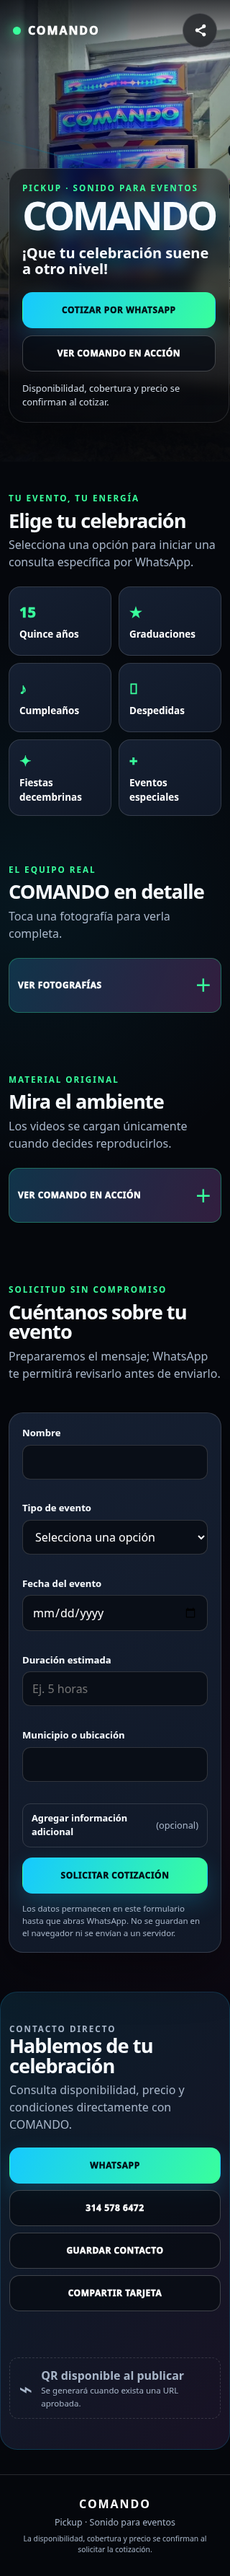
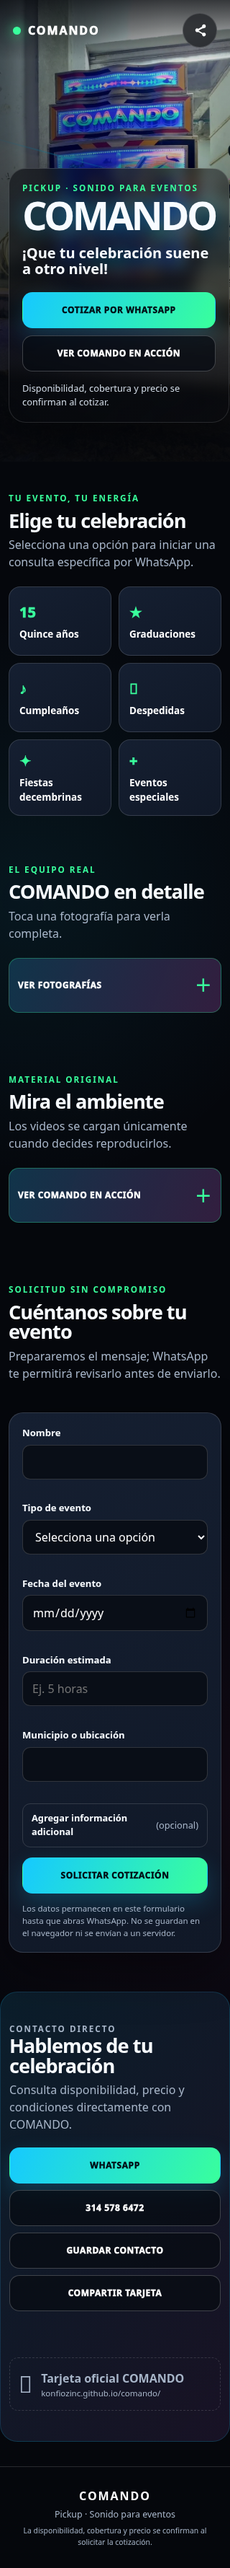
chore: configurar URL pública de COMANDO

diff --git a/index.html b/index.html
@@ -5,16 +5,18 @@
   <meta name="viewport" content="width=device-width,initial-scale=1,viewport-fit=cover">
   <meta name="theme-color" content="#080b12">
   <meta name="description" content="COMANDO: pickup y sonido para quince años, graduaciones, cumpleaños y celebraciones especiales. Solicita una cotización por WhatsApp.">
+  <link rel="canonical" href="https://konfiozinc.github.io/comando/">
   <meta property="og:type" content="website">
+  <meta property="og:url" content="https://konfiozinc.github.io/comando/">
   <meta property="og:title" content="COMANDO · Sonido para eventos">
   <meta property="og:description" content="Que tu celebración suene a otro nivel. Solicita disponibilidad y cotización por WhatsApp.">
-  <meta property="og:image" content="assets/img/og-comando.png">
+  <meta property="og:image" content="https://konfiozinc.github.io/comando/assets/img/og-comando.png">
   <meta property="og:image:width" content="1200">
   <meta property="og:image:height" content="630">
   <meta name="twitter:card" content="summary_large_image">
   <meta name="twitter:title" content="COMANDO · Sonido para eventos">
   <meta name="twitter:description" content="Pickup y sonido para celebraciones especiales.">
-  <meta name="twitter:image" content="assets/img/og-comando.png">
+  <meta name="twitter:image" content="https://konfiozinc.github.io/comando/assets/img/og-comando.png">
   <title>COMANDO · Pickup y sonido para eventos</title>
   <link rel="icon" href="assets/img/favicon.svg" type="image/svg+xml">
   <link rel="manifest" href="manifest.webmanifest">
@@ -156,7 +158,7 @@
         <button class="button button--ghost" id="share-card" type="button">Compartir tarjeta</button>
       </div>
       <p class="share-status" id="share-status" role="status" aria-live="polite"></p>
-      <div class="qr-pending" aria-label="Código QR pendiente de URL definitiva"><span aria-hidden="true">⌁</span><div><strong>QR disponible al publicar</strong><small>Se generará cuando exista una URL aprobada.</small></div></div>
+      <div class="qr-pending" aria-label="URL oficial de la tarjeta COMANDO"><span aria-hidden="true">↗</span><div><strong>Tarjeta oficial COMANDO</strong><small>konfiozinc.github.io/comando/</small></div></div>
     </section>
   </main>
 

diff --git a/app.js b/app.js
@@ -1,6 +1,7 @@
 'use strict';
 
 const PHONE = '573145786472';
+const PUBLIC_URL = 'https://konfiozinc.github.io/comando/';
 const quoteBase = 'Hola, quiero contratar el pickup COMANDO.';
 
 document.querySelectorAll('.source-photo').forEach((image) => {
@@ -134,12 +135,12 @@ document.addEventListener('keydown', (event) => {
 
 const status = document.querySelector('#share-status');
 async function shareCard() {
-  const data = { title: 'COMANDO · Sonido para eventos', text: 'Conoce COMANDO y solicita una cotización para tu celebración.', url: location.href };
+  const data = { title: 'COMANDO · Sonido para eventos', text: 'Conoce COMANDO y solicita una cotización para tu celebración.', url: PUBLIC_URL };
   try {
     if (navigator.share) await navigator.share(data);
-    else if (navigator.clipboard && window.isSecureContext) { await navigator.clipboard.writeText(location.href); status.textContent = 'Enlace copiado.'; }
+    else if (navigator.clipboard && window.isSecureContext) { await navigator.clipboard.writeText(PUBLIC_URL); status.textContent = 'Enlace copiado.'; }
     else {
-      const temporary = document.createElement('textarea'); temporary.value = location.href; temporary.setAttribute('readonly', ''); temporary.style.position = 'fixed'; temporary.style.opacity = '0';
+      const temporary = document.createElement('textarea'); temporary.value = PUBLIC_URL; temporary.setAttribute('readonly', ''); temporary.style.position = 'fixed'; temporary.style.opacity = '0';
       document.body.append(temporary); temporary.select(); document.execCommand('copy'); temporary.remove(); status.textContent = 'Enlace copiado.';
     }
   } catch (error) { if (error.name !== 'AbortError') status.textContent = 'No fue posible compartir. Copia la dirección del navegador.'; }

diff --git a/INFORME-KZ-COMANDO-004.md b/INFORME-KZ-COMANDO-004.md
@@ -17,7 +17,7 @@ No se cambiaron fotografías, videos, teléfono, condiciones comerciales ni meta
 
 ## Validación
 
-La suite ejecutó **49 comprobaciones aprobadas y 0 fallidas**. Incluye las 40 comprobaciones previas y regresiones nuevas para apertura/cierre de fotografías y videos, selección de evento, foco, paneles, imágenes locales y rutas.
+La suite ejecutó **52 comprobaciones aprobadas y 0 fallidas**. Incluye las 40 comprobaciones previas, regresiones de interacción y controles de canonical, Open Graph y función de compartir con la URL definitiva.
 
 Resoluciones verificadas: 320×640, 360×640, 375×667, 390×844, 768×1024, 1024×768 y 1440×900.
 
@@ -33,4 +33,4 @@ Evidencias:
 
 ## Recomendación
 
-**GO para revisión visual del propietario.** La activación de GitHub Pages y la integración a `main` siguen pendientes de autorización expresa.
+**GO para publicación controlada.** La URL definitiva configurada es `https://konfiozinc.github.io/comando/`.
